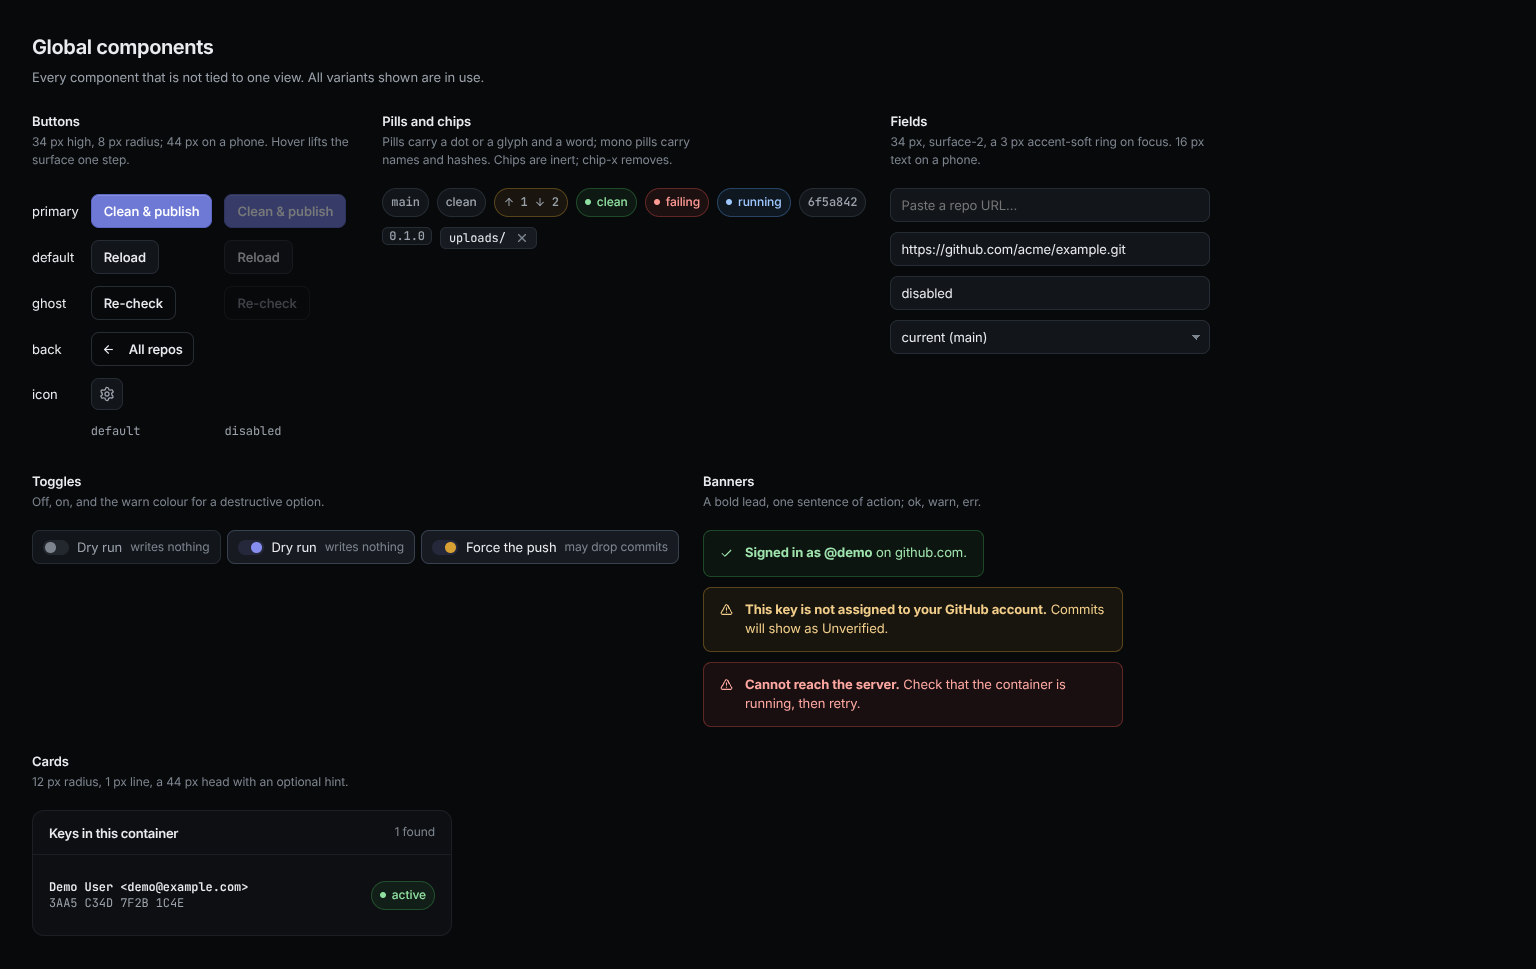
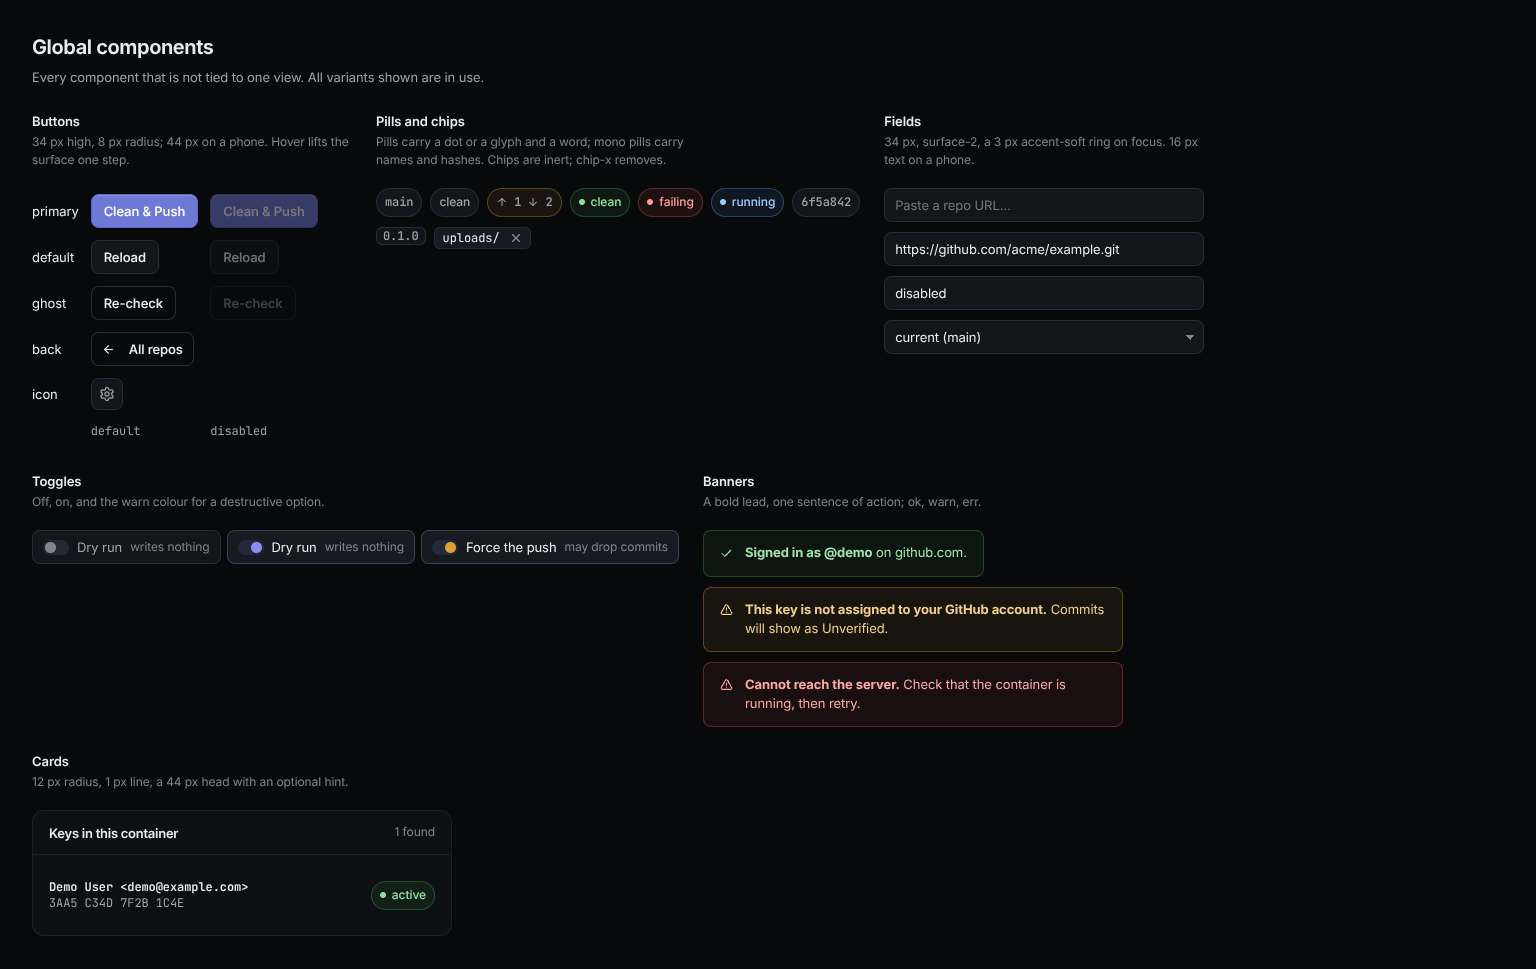
refactor(ui): rename Clean & publish to Clean & Push

diff --git a/ui/static/index.html b/ui/static/index.html
@@ -730,7 +730,7 @@
           <div class="card-head">
             <span class="status" id="status" role="status" aria-live="polite"><span class="led"></span><span id="statustext">idle</span></span>
             <div class="grow"></div>
-            <button class="btn primary" id="start">Clean &amp; publish</button>
+            <button class="btn primary" id="start">Clean &amp; Push</button>
             <button class="btn" id="cancel" disabled>Cancel</button>
           </div>
           <ol class="phases" id="phases"></ol>
@@ -758,7 +758,7 @@
       </div>
     </div>
     <div class="tabbar" id="tabbar">
-      <button class="btn primary" id="start-mobile">Clean &amp; publish</button>
+      <button class="btn primary" id="start-mobile">Clean &amp; Push</button>
       <button class="btn" id="cancel-mobile" disabled>Cancel</button>
     </div>
   </div>
@@ -1012,7 +1012,7 @@
     }
 
     const actions = el("div", { class: "card-actions" },
-      el("button", { class: "btn primary", onclick: async (e) => { e.stopPropagation(); await oneClick(repo); } }, "Clean & publish"));
+      el("button", { class: "btn primary", onclick: async (e) => { e.stopPropagation(); await oneClick(repo); } }, "Clean & Push"));
 
     return el("div", { class: "repo-card", role: "button", tabindex: "0",
         onclick: () => openRepo(repo.id),

diff --git a/scripts/design_boards.py b/scripts/design_boards.py
@@ -340,7 +340,7 @@ def wireframe_board(_: dict[str, bytes]) -> str:
     '<div class="bar">'
     + block("● idle", width="60px")
     + '<div class="grow"></div>'
-    + block("Clean & publish", hi=True, width="120px")
+    + block("Clean & Push", hi=True, width="120px")
     + block("Cancel", width="60px")
     + "</div>"
     + "".join(
@@ -374,7 +374,7 @@ def wireframe_board(_: dict[str, bytes]) -> str:
     + f'<div class="scr" style="width:auto">{commits}</div></div>'
   )
   actions = (
-    '<table class="sheet"><tr><td class="mono">Clean &amp; publish</td>'
+    '<table class="sheet"><tr><td class="mono">Clean &amp; Push</td>'
     "<td>starts the run with the options shown</td></tr>"
     '<tr><td class="mono">Cancel</td><td>terminates the child process; the log says cancelled</td></tr>'
     '<tr><td class="mono">Show log</td><td>unfolds the raw lines under the phase list</td></tr>'
@@ -484,8 +484,8 @@ def states_board(_: dict[str, bytes]) -> str:
 def components_board(_: dict[str, bytes]) -> str:
   buttons = (
     '<table class="sheet">'
-    '<tr><td>primary</td><td><button class="btn primary">Clean &amp; publish</button></td>'
-    '<td><button class="btn primary" disabled>Clean &amp; publish</button></td></tr>'
+    '<tr><td>primary</td><td><button class="btn primary">Clean &amp; Push</button></td>'
+    '<td><button class="btn primary" disabled>Clean &amp; Push</button></td></tr>'
     '<tr><td>default</td><td><button class="btn">Reload</button></td>'
     '<td><button class="btn" disabled>Reload</button></td></tr>'
     '<tr><td>ghost</td><td><button class="btn ghost">Re-check</button></td>'

diff --git a/scripts/walk.py b/scripts/walk.py
@@ -582,7 +582,7 @@ def phone_paste_box_is_a_tap_target(w: Walker, demo: Demo) -> None:
 
 
 @step("phone")
-def phone_clean_and_publish_runs(w: Walker, demo: Demo) -> None:
+def phone_clean_and_push_runs(w: Walker, demo: Demo) -> None:
   w.click(".repo-card", 700)
   w.click("#start-mobile", 4000)
   assert w.status_text().strip()

diff --git a/docs/design.md b/docs/design.md
@@ -126,5 +126,6 @@ The one design record for the arena-cleanup web app. The sections follow the nem
 - Accepted 2026-10-22: in a narrow cell a segmented control wraps whole buttons onto a second row, never words.
 - Accepted 2026-10-22: a shallow history. The dashboard is the root entry and a sub-view is at most one entry deep. One Back leaves a sub-view, the next one leaves the page.
 - Accepted 2026-10-22: no command switch on the repository page. A local rewrite without a push is a terminal task, so `strip` lives in the CLI alone.
+- Accepted 2026-10-22: the primary button reads Clean & Push. The phase list keeps Publish for the push, tags, and cleanup step.
 - Accepted 2026-10-22: a tree selector for Remove paths. It reads `git ls-tree` of HEAD in the clone, so it works for path repositories and never calls GitHub. File contents stay out; a path only old commits carried stays a typed chip.
 - Accepted 2026-10-22: the card Remove X moves from the action row to the top right corner. At rest it is a bare glyph, so the primary button stands alone. The red frame returns on hover, on press, and while armed.

diff --git a/CHANGELOG.md b/CHANGELOG.md
@@ -38,5 +38,6 @@ and the project uses [Semantic Versioning](https://semver.org/spec/v2.0.0.html).
 - Reset to origin in the repository sidebar: fetch, check out the default branch, and reset it hard. Untracked files stay.
 - The repository page runs the full flow only. The Rewrite locally switch is gone, and `strip` stays a CLI command.
 - The card Remove X sits top right as a bare glyph. A red frame comes on hover, on press, and while armed.
+- The primary button reads Clean & Push on the card, the run card, and the phone bar.
 - Browse under Remove paths opens the HEAD tree of the clone, one level per request. A click on a row or its plus adds the path chip; `GET /api/repos/<id>/tree?path=` serves the level.
 - The demo histories keep tests under `tests/` and the workflow under `.github/workflows/`, so the tree has folders to open.

diff --git a/README.md b/README.md
@@ -92,7 +92,7 @@ flags, and `arena-cleanup doctor` checks the setup.
    - **Claimed commits**: the e-mails and names whose commits a run rewrites
      onto the identity. Empty lists fall back to the built-in rules.
 3. About sits below the settings.
-4. **Clean & publish** runs the pipeline and streams the log. A click on the
+4. **Clean & Push** runs the pipeline and streams the log. A click on the
    card shows the repo view first: target branch, paths to remove, the
    divergence policy, the check timeout, and the options (dry run, skip the
    PR gate, keep empty commits, leave tags alone, keep the branch, force the
